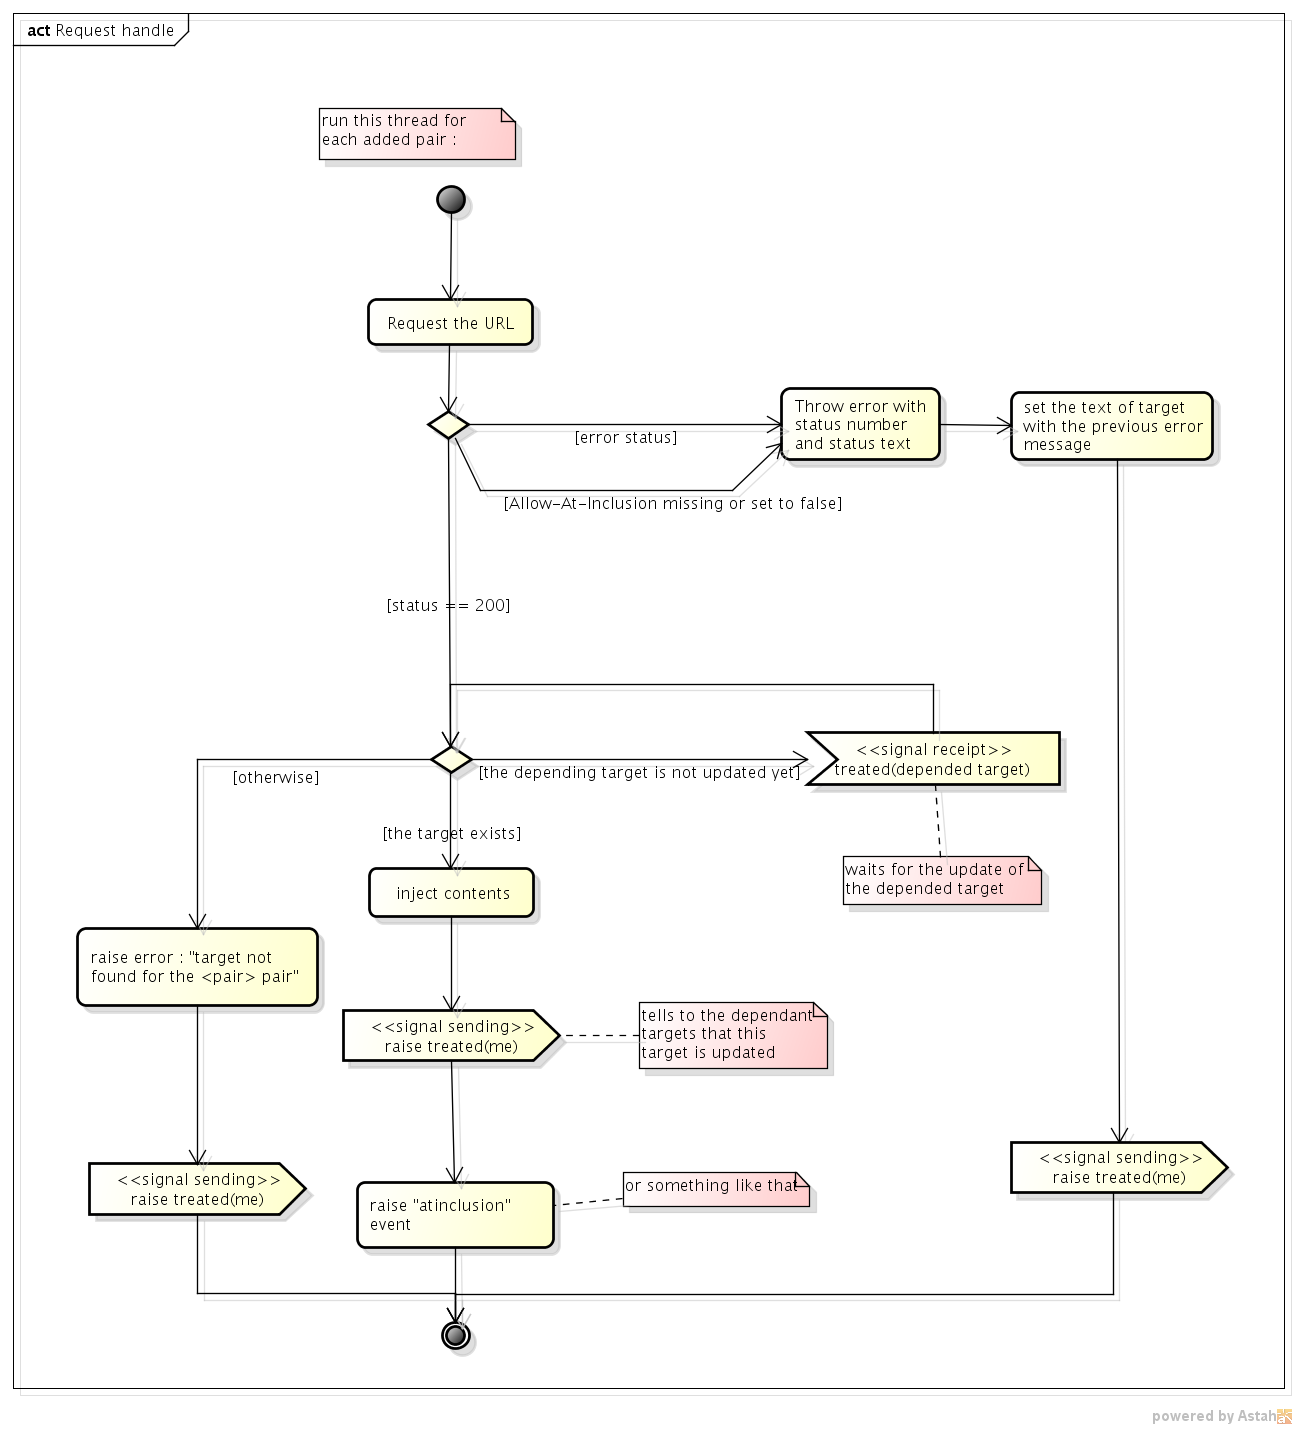
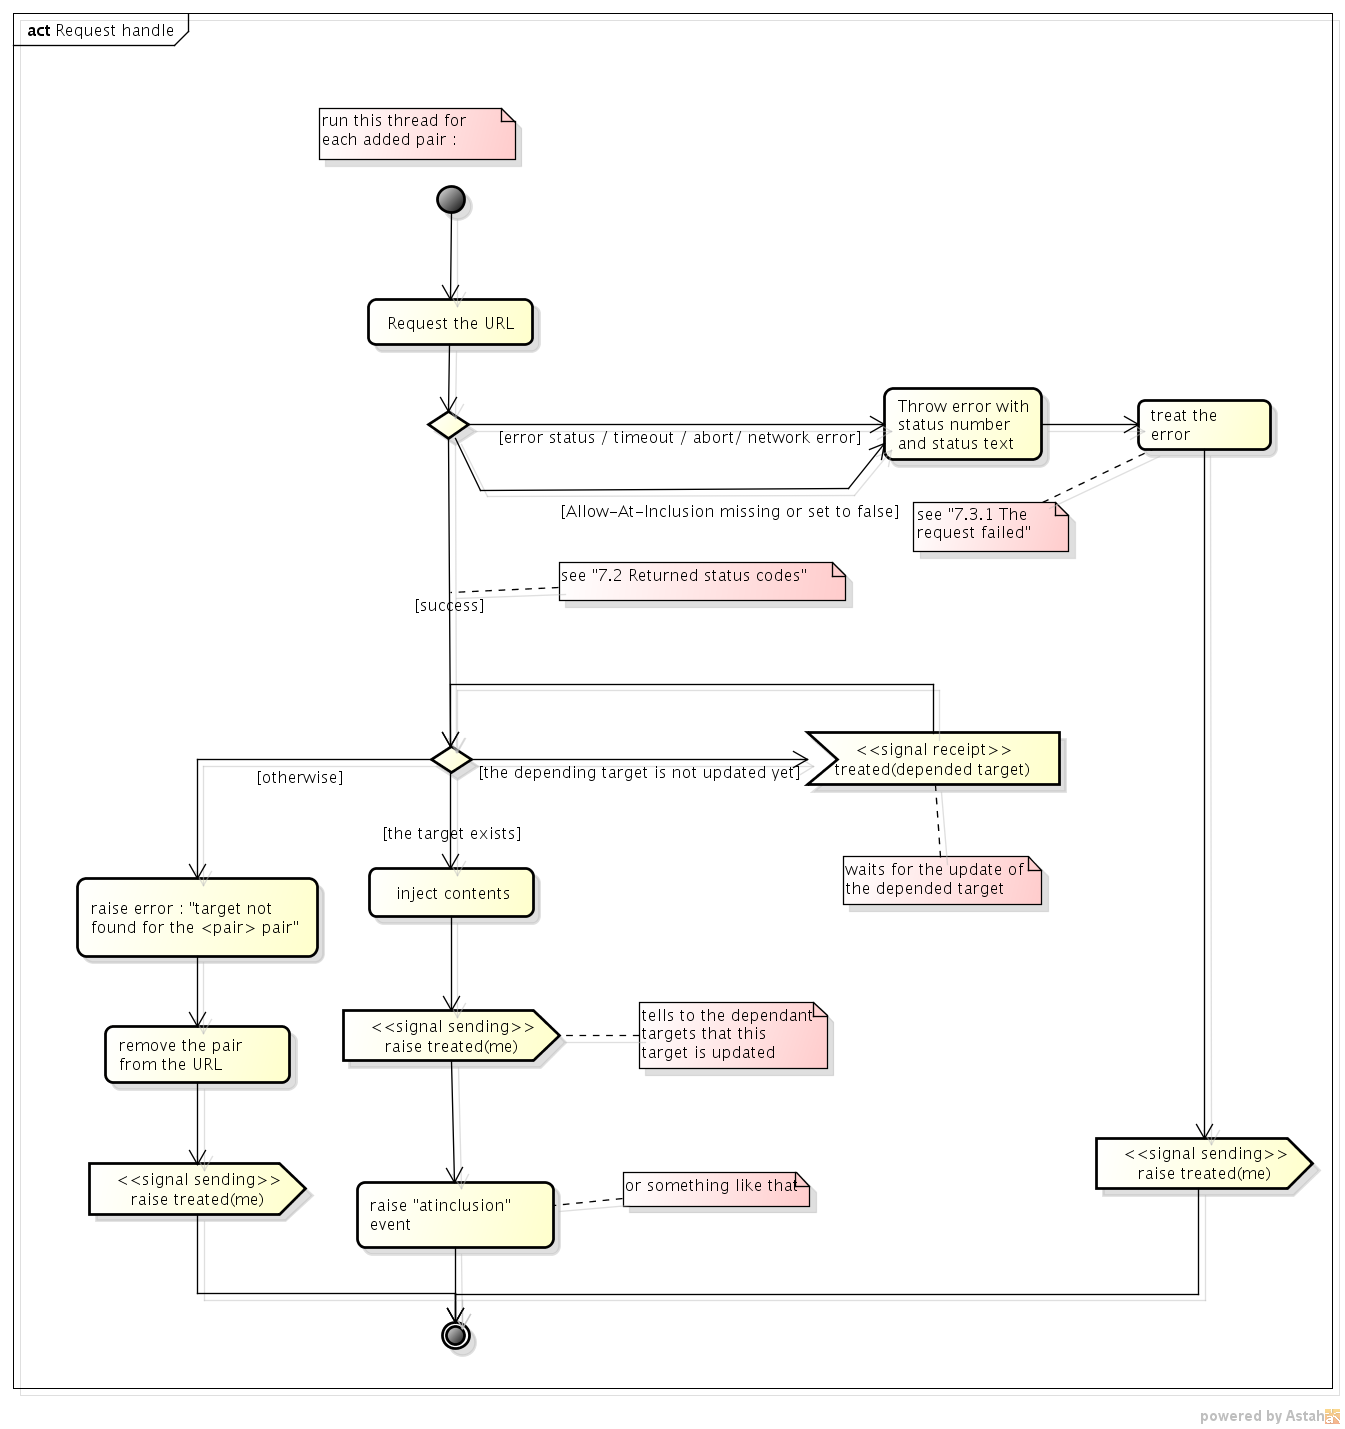
title + script questions added

diff --git a/index.html b/index.html
@@ -100,7 +100,7 @@
 			<p>This document is a proposition to handle <i>ajaxisation</i> using HTML and JavaScript's <i>location</i> API. 
 			<p>To do so, a new part of the URL is introduced: the <i>At Inclusion.</i>
 				<br/><i>At Inclusion</i> simply describes what to load and where to inject the loaded contents.</p>
-			<p>You are free (and even encouraged) to ask questions, to make remarks, to share your opinion and fork it via github if you feel the need.</p>
+			<p>You are free (and even encouraged) to ask questions, to make remarks, to share your opinion and <a href="https://github.com/fflorent/At-Inclusion-Proposal" target="_blank">fork</a> it via github if you feel the need.</p>
 			
 			<h2>Abstract</h2>
 			<p><i>Ajaxising</i> a website has several benefits, as well for the webmasters as for their users [<a target="_blank" href="http://www.interaktonline.com/support/articles/Details/Ajax:+Asynchronously+Moving+Forward-Why+use+Ajax%3F.html?id_art=36&amp;id_asc=309">1</a>], such as : </p>
@@ -264,13 +264,6 @@
 			</div>
 			
 			<h2>Processing the requests</h2>
-			<!--<h3>Pairs treatment</h3>
-			<h4>In case of <i>At Inclusion</i> addition/replacement</h4>
-			<p>For each target, the user-agent runs the requests that can be run immediately (i.e. the target is not prefixed or is prefixed by a treated target). <br/>
-				In case of missing target, the user-agent cancels the request and sends an error (see below).<br/>
-			<p>When the user-agent receives an URL with an <i>At Inclusion</i> string, it requests the main page and the URL of the <i>At Inclusion</i> pairs in separate threads. <br/>
-				As the main document is parsed, if the URL is successfully requested, the user-agent replaces the target of a pair by its content.
-				Otherwise, the user-agent displays the content of the target element, and injects the chunk once the request is finished.</p>-->
 			
 			<h3>Security with HTTP headers</h3>
 			<p>To avoid security issues, when processing the requests of the URLs in <i>At Inclusion</i> pairs, the user-agent sends the referer HTTP header (as usual), plus this header :</p>
@@ -282,6 +275,10 @@
 				Thus, it avoids security issues if the server is not configured.</p>
 			<p class="note">NOTE: a way to use CORS with <i>At Inclusion</i> needs to be discussed.</p>
 			
+			<h3>Returned status codes</h3>
+			<p>If the status code is 200 or 304, the request has succeeded. Otherwise, if the status code is 301, 302, 303, or 307, 
+				see <a href="http://www.w3.org/TR/XMLHttpRequest/#infrastructure-for-the-send-method" target="_blank">http://www.w3.org/TR/XMLHttpRequest/#infrastructure-for-the-send-method</a> (for the same-origin case).</p>
+			<p>Other status code are treated as request errors.</p>
 			<h3>Error handling</h3>
 			<h4>The request failed</h4>
 			<p><b>Proposition 1 : </b>If the request failed, the user-agent must show the error (HTTP status code + message) in the target element.</p>
@@ -292,7 +289,7 @@
 			<h3>Pairs treatment</h3>
 			<p>Here is an activity diagram of how the requests would be handled: </p>
 			<p><img src="proposed_request_handle.png" style="width:90%" alt="activity diagram"/></p>
-			
+			<p>
 			
 			<h2>Setting <i>At Inclusion</i> pairs</h2>
 			<h3>Through HTMLAnchor Element</h3>
@@ -320,7 +317,7 @@
 			
 			
 			
-			<h2>JS prototype</h2>
+			<h2>Example of implementation in JS</h2>
 			<p>A concrete prototype of implementation (in JS, though, but that is for an overview of the idea) is given here : </p>
 			<p><a href="http://fflorent.github.com/HUX" target="_blank">http://fflorent.github.com/HUX</a></p>
 			<p>In this site, each link uses At Inclusion. To test it, click on links in the menu. You will see the update of the URL in the location bar, for example : </p>
@@ -333,13 +330,8 @@
 			</ul>
 			<p>So, Framework of this kind could be used for retro-compatibilities (with a lower performance, though).</p>
 			<p class="note">if you use IE 7/8/9, you may have noticed that At Inclusion pairs are converted to Hash bangs.</p>
-			<!--<p>Finally, At Inclusion is suggested to be implemented in user-agents for these reasons : </p>
-			<ul>
-				<li>to take advantage of implementation inside user-agents (such as the performance, the ability to add extra things we cannot with JavaScript, etc.);</li>
-				<li>to avoid the constraint of using server-side modules for indexation;</li>
-				<li>to 
-				<li>to standardize the principle, to make people trust in the technology they finally would use (in term of security, sustainability).</li>
-			</ul>-->
+			
+			
 			<h2>Remaining questions</h2>
 			<p>Here are questions, needing to go further with that proposition</p>
 			<h3>Using At</h3>
@@ -370,6 +362,20 @@
 			<p>I would also see the ability to apply specific CSS while the requests are running, and make animations before and after the targets are being updated.</p>
 			<p>The question is : how to trigger these animations ? Via Javascript ? Via CSS modifiers ? </p>
 			
+			<h3>Changing document title</h3>
+			<p>When the "main" content of the page is changed, the document title is expected to change too.</p>
+			<p>However, I have no idea yet how to set it up exactly. Should we use special tags for HTML fragment files?</p>
+			<p>And also, due to the asynchronous property of <i>At Inclusion</i>, there should be a way to say which pairs can change the title. </p><p>
+				My opinion is that one target, and one target of its child (i.e. dependent target), and one target of the latter's child, etc. can change it.
+				So we are sure that if we have @a=u1,a.b=u2,b.c=u3,b.d=u4,c.e=u5,x=u5 , where a,b,c can change the title, whatever the load order is for these targets, 
+				<b>c</b>'s title overrides <b>b</b>'s title which overrides <b>a</b>'s title. So <b>c</b>'s title is always shown with this <i>At Inclusion</i> string.</p>
+			<h3>Script execution order</h3>
+			<p>Due to the asynchronous property of <i>At Inclusion</i>, the execution order of the &lt;script&gt; tags in HTML fragments must be thinked.</p>
+			<p>There are 2 scenarios for that : </p>
+			<ul>
+				<li>the user browses the website;</li>
+				<li>the user loads a page using an URL with <i>At Inclusion</i> pairs.</li>
+			</ul>
 		</div>
 	</body>
 </html>
